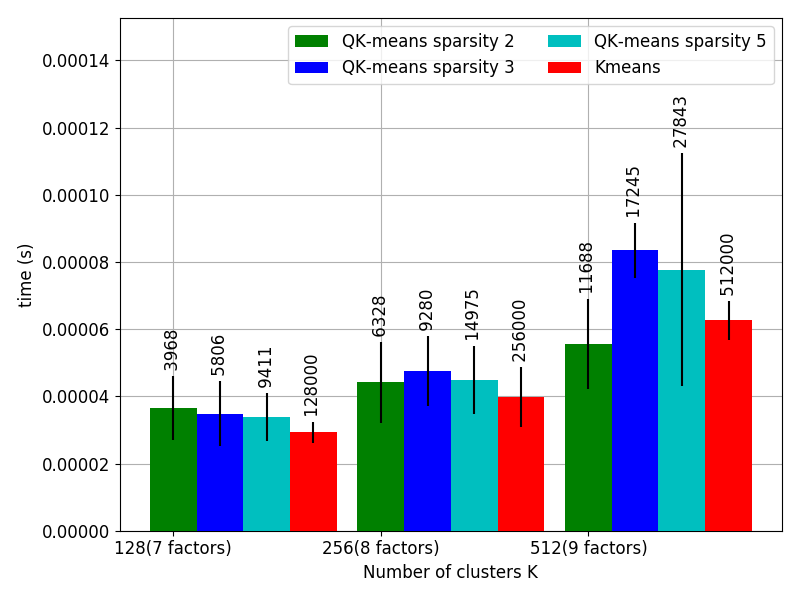
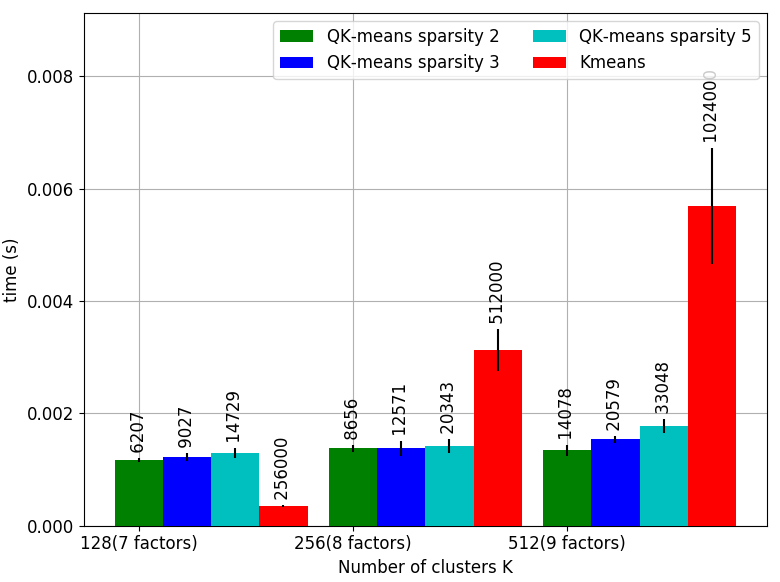
update clustering inference time

diff --git a/reports/nips_2019/applications.tex b/reports/nips_2019/applications.tex
@@ -126,7 +126,7 @@ Although some degradation may be observed in some images, one can note that each
 Higher dimensions are required to assess the computational benefits of the proposed approach, as shown here.
 The assignation times of the clustering procedure were measured on the Blobs dataset.
 The centroid matrices are with shape $\nclusters \times \datadim$ with $\datadim=1000$  and $\nclusters\in\left \lbrace 128, 256, 512\right \rbrace$.
-Results reported in Figure~\ref{fig:clustering:blobs:assignation_time} show that in this setting and with the current implementation, the computational advantage of \qkmeans is observed for the higher number of clusters $\nclusters=512$.
+Results reported in Figure~\ref{fig:clustering:blobs:assignation_time} show that in this setting and with the current implementation, the computational advantage of \qkmeans is observed in high dimension, for $\nclusters=256$ and $\nclusters=512$ clusters. It is worth noticing that when $K$ increases, the running times are not affected that much for \qkmeans while it significantly grows for \kmeans. These trends are directly related to the number of model parameters that are reported in the figure.
 
 %\todo[inline]{Montrer ensuite les temps d'assignation en mode batch 5000 sur blobs, cf. Figure~\ref{fig:clustering:blobs:assignation_time}. Objectif: montrer qu'à partir d'une certaine dimension, \qkmeans est plus rapide.}
 %on-line\footnote{Anonymous URL.}.
